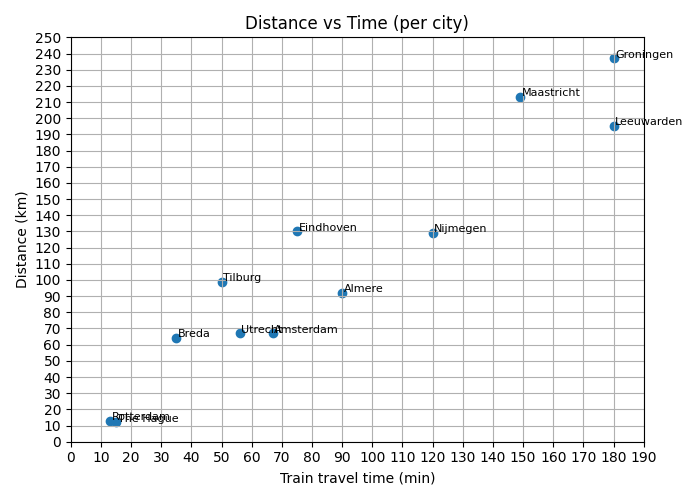
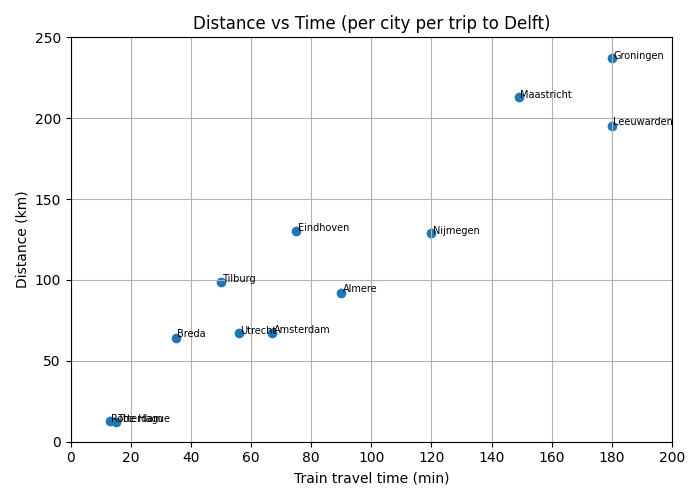
updated the graphs to per /month and detailled stu

diff --git a/Train_calculations_basics.py b/Train_calculations_basics.py
@@ -1,4 +1,6 @@
 import matplotlib.pyplot as plt
+import numpy as np
+import math
 
 import pandas as pd
 # use forward slashes to avoid escape-sequence warnings on Windows
@@ -76,22 +78,97 @@ os.makedirs(FIG_DIR, exist_ok=True)
 # may not work; set to False to only save files.
 SHOW_PLOTS = False
 
+# days per month (average working days to Delft); changeable variable
+DAYS_PER_MONTH = 23
+
+
+def compute_ticks(minv, maxv, target_ticks=8):
+  """Compute 'nice' ticks between minv and maxv aiming for ~target_ticks ticks.
+
+  This is the same logic used for scatter plots but exposed at module level so
+  bar charts can also use sensible tick steps.
+  """
+  if math.isnan(minv) or math.isnan(maxv):
+    return []
+  if minv == maxv:
+    if minv == 0:
+      minv, maxv = 0, 1
+    else:
+      minv = minv - abs(minv) * 0.1
+      maxv = maxv + abs(maxv) * 0.1
+  rng = maxv - minv
+  if rng == 0:
+    rng = abs(maxv) if maxv != 0 else 1
+  raw_step = rng / max(1, target_ticks - 1)
+  exp = math.floor(math.log10(raw_step))
+  base = 10 ** exp
+  lead = raw_step / base
+  if lead <= 1.5:
+    nice = 1 * base
+  elif lead <= 3:
+    nice = 2 * base
+  elif lead <= 7:
+    nice = 5 * base
+  else:
+    nice = 10 * base
+  start = math.floor(minv / nice) * nice
+  stop = math.ceil(maxv / nice) * nice
+  ticks = np.arange(start, stop + nice / 2, nice)
+  return ticks
+
 
 def simple_scatter(x, y, labels, xlabel, ylabel, title, fname):
   """Create a simple scatter plot with city name labels and grid ticks every 10."""
   plt.figure(figsize=(7, 5))
   plt.scatter(x, y, c='C0')
   # annotate points with city names (simple offset)
-  for xi, yi, lab in zip(x, y, labels):
-    plt.text(xi + 0.5, yi + 0.5, lab, fontsize=8)
+  # stagger labels slightly to reduce overlap: alternate up/down offsets
+  for i, (xi, yi, lab) in enumerate(zip(x, y, labels)):
+    yoff = 0.5 if i % 2 == 0 else -0.5
+    xoff = 0.5
+    plt.text(xi + xoff, yi + yoff, lab, fontsize=7)
   plt.xlabel(xlabel)
   plt.ylabel(ylabel)
   plt.title(title)
-  # set simple grid with ticks every 10
+  # set sensible tick steps based on axis ranges
+  def compute_ticks(minv, maxv, target_ticks=8):
+    """Compute 'nice' ticks between minv and maxv aiming for ~target_ticks ticks."""
+    if math.isnan(minv) or math.isnan(maxv):
+      return []
+    if minv == maxv:
+      # single value: create small symmetric range
+      if minv == 0:
+        minv, maxv = 0, 1
+      else:
+        minv = minv - abs(minv) * 0.1
+        maxv = maxv + abs(maxv) * 0.1
+    rng = maxv - minv
+    if rng == 0:
+      rng = abs(maxv) if maxv != 0 else 1
+    raw_step = rng / max(1, target_ticks - 1)
+    # nice step: 1, 2, 5 times power of ten
+    exp = math.floor(math.log10(raw_step))
+    base = 10 ** exp
+    lead = raw_step / base
+    if lead <= 1.5:
+      nice = 1 * base
+    elif lead <= 3:
+      nice = 2 * base
+    elif lead <= 7:
+      nice = 5 * base
+    else:
+      nice = 10 * base
+    # compute tick start/stop
+    start = math.floor(minv / nice) * nice
+    stop = math.ceil(maxv / nice) * nice
+    # create ticks
+    ticks = np.arange(start, stop + nice / 2, nice)
+    return ticks
+
   xmin, xmax = plt.xlim()
   ymin, ymax = plt.ylim()
-  xticks = list(range(int(max(0, xmin)) - (int(max(0, xmin)) % 10), int(xmax) + 11, 10))
-  yticks = list(range(int(max(0, ymin)) - (int(max(0, ymin)) % 10), int(ymax) + 11, 10))
+  xticks = compute_ticks(xmin, xmax, target_ticks=8)
+  yticks = compute_ticks(ymin, ymax, target_ticks=8)
   plt.xticks(xticks)
   plt.yticks(yticks)
   plt.grid(True)
@@ -138,50 +215,125 @@ def print_distance_vs_time(df):
 
 # 1) Cost vs Distance (cost on y-axis, distance on x-axis)
 simple_scatter(distance, cost, cities, 'Distance (km)', 'Train cost (EUR)',
-               'Cost vs Distance (per city)', 'cost_vs_distance.png')
+               'Cost vs Distance (per city per trip to Delft)', 'cost_vs_distance.png')
 
 # 2) Cost vs Time (cost on y-axis, time on x-axis)
 simple_scatter(time, cost, cities, 'Train travel time (min)', 'Train cost (EUR)',
-               'Cost vs Time (per city)', 'cost_vs_time.png')
+               'Cost vs Time (per city per trip to Delft)', 'cost_vs_time.png')
 
 # 3) Distance vs Time (distance on y-axis, time on x-axis)
 simple_scatter(time, distance, cities, 'Train travel time (min)', 'Distance (km)',
-               'Distance vs Time (per city)', 'distance_vs_time.png')
+               'Distance vs Time (per city per trip to Delft)', 'distance_vs_time.png')
 
 # Create bar charts with cities on x-axis
 def simple_bar(values, city_names, ylabel, title, fname):
-    """Create a simple bar chart with cities on x-axis."""
-    plt.figure(figsize=(10, 5))
-    plt.bar(city_names, values)
-    plt.xticks(rotation=45, ha='right')
-    plt.ylabel(ylabel)
-    plt.title(title)
-    plt.grid(True, axis='y')
-    path = os.path.join(FIG_DIR, fname)
-    plt.tight_layout()
-    plt.savefig(path)
-    print(f"Saved: {path}")
-    if SHOW_PLOTS:
-        try:
-            plt.show()
-        except Exception:
-            pass
-    plt.close()
+  """Create a simple bar chart with cities on x-axis."""
+  plt.figure(figsize=(10, 5))
+  bars = plt.bar(city_names, values)
+  plt.xticks(rotation=45, ha='right')
+  plt.ylabel(ylabel)
+  plt.title(title)
+  plt.grid(True, axis='y')
+  # set sensible y ticks for bar charts
+  ymin, ymax = plt.ylim()
+  yticks = compute_ticks(ymin, ymax, target_ticks=6)
+  if len(yticks) > 0:
+    plt.yticks(yticks)
+
+  # add numeric labels above bars
+  # choose formatting based on ylabel
+  fmt = '{:.0f}'
+  if 'EUR' in ylabel or 'Cost' in title:
+    fmt = '{:.2f}'
+  elif 'minutes' in ylabel or 'time' in ylabel.lower():
+    fmt = '{:.0f}'
+  elif 'km' in ylabel or 'Distance' in title:
+    fmt = '{:.0f}'
+
+  for bar in bars:
+    h = bar.get_height()
+    if np.isnan(h):
+      label = ''
+    else:
+      try:
+        label = fmt.format(h)
+      except Exception:
+        label = str(h)
+    plt.text(bar.get_x() + bar.get_width() / 2, h + (ymax - ymin) * 0.01, label,
+         ha='center', va='bottom', fontsize=8)
+
+  path = os.path.join(FIG_DIR, fname)
+  plt.tight_layout()
+  plt.savefig(path)
+  print(f"Saved: {path}")
+  if SHOW_PLOTS:
+    try:
+      plt.show()
+    except Exception:
+      pass
+  plt.close()
 
 
 print("\nGenerating bar charts...")
 
-# 1. Time bar chart
-simple_bar(time, cities, 'Travel time (minutes)',
-          'Train Travel Time by City', 'time_bars.png')
+# Multiply values by 2 to represent round-trip (to and from Delft)
+time_rt = time * 2
+distance_rt = distance * 2
+cost_rt = cost * 2
 
-# 2. Distance bar chart
-simple_bar(distance, cities, 'Distance (km)',
-          'Distance by City', 'distance_bars.png')
+# 1. Time bar chart (roundtrip)
+simple_bar(time_rt, cities, 'Travel time (minutes)',
+          'Train Travel Time by City (per roundtrip to and from Delft)', 'time_bars_roundtrip.png')
 
-# 3. Cost bar chart
-simple_bar(cost, cities, 'Cost (EUR)',
-          'Train Cost by City', 'cost_bars.png')
+# 2. Distance bar chart (roundtrip)
+simple_bar(distance_rt, cities, 'Distance (km)',
+          'Distance by City (per roundtrip to and from Delft)', 'distance_bars_roundtrip.png')
+
+# 3. Cost bar chart (roundtrip)
+simple_bar(cost_rt, cities, 'Cost (EUR)',
+          'Train Cost by City (per roundtrip to and from Delft)', 'cost_bars_roundtrip.png')
+
+
+# --- Monthly bar charts (readable y-axis) --------------------------------
+# (monthly bar charts will be generated after computing monthly values below)
+
+
+# --- Monthly calculations and plots -------------------------------------
+# Compute monthly values based on round-trip per day multiplied by DAYS_PER_MONTH
+time_month = time_rt * DAYS_PER_MONTH
+distance_month = distance_rt * DAYS_PER_MONTH
+cost_month = cost_rt * DAYS_PER_MONTH
+
+# Generate monthly bar charts (readable y-axis)
+print('\nGenerating monthly bar charts...')
+simple_bar(time_month, cities, 'Travel time per month (minutes)',
+           'Train Travel Time per Month by City', 'time_bars_month.png')
+
+simple_bar(distance_month, cities, 'Distance per month (km)',
+           'Distance per Month by City', 'distance_bars_month.png')
+
+simple_bar(cost_month, cities, 'Cost per month (EUR)',
+           'Cost per Month by City', 'cost_bars_month.png')
+
+# 1) Train cost per month (y) vs travel time per day (x)
+simple_scatter(time, cost_month, cities,
+               'Train travel time per day (min)', 'Train cost per month (EUR)',
+               'Cost per month vs time per day', 'cost_month_vs_time_day.png')
+
+# 2) Train cost per month (y) vs travel time per month (x)
+simple_scatter(time_month, cost_month, cities,
+               'Train travel time per month (min)', 'Train cost per month (EUR)',
+               'Cost per month vs time per month', 'cost_month_vs_time_month.png')
+
+# 3) Distance per month (y) vs travel time per month (x)
+simple_scatter(time_month, distance_month, cities,
+               'Train travel time per month (min)', 'Distance per month (km)',
+               'Distance per month vs time per month', 'distance_month_vs_time_month.png')
+
+# 4) Cost per month (y) vs distance per month (x)
+simple_scatter(distance_month, cost_month, cities,
+               'Distance per month (km)', 'Train cost per month (EUR)',
+               'Cost per month vs distance per month', 'cost_month_vs_distance_month.png')
 
 
 
